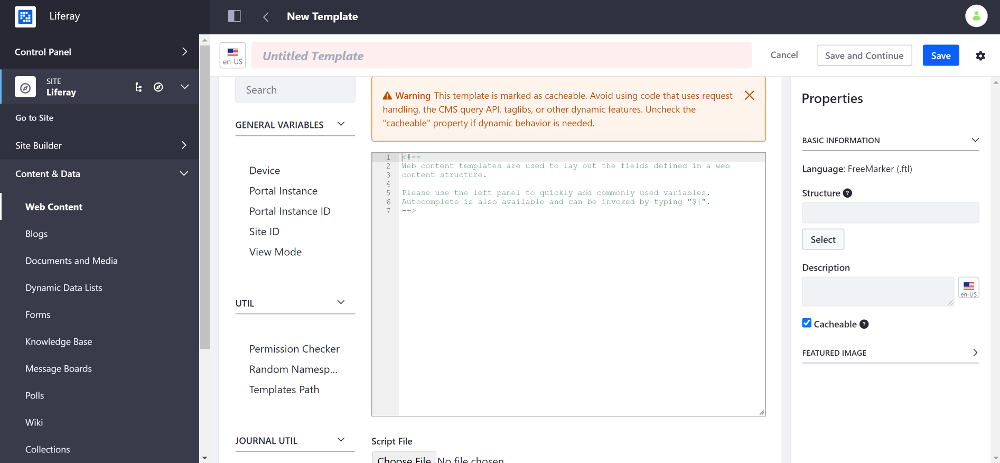
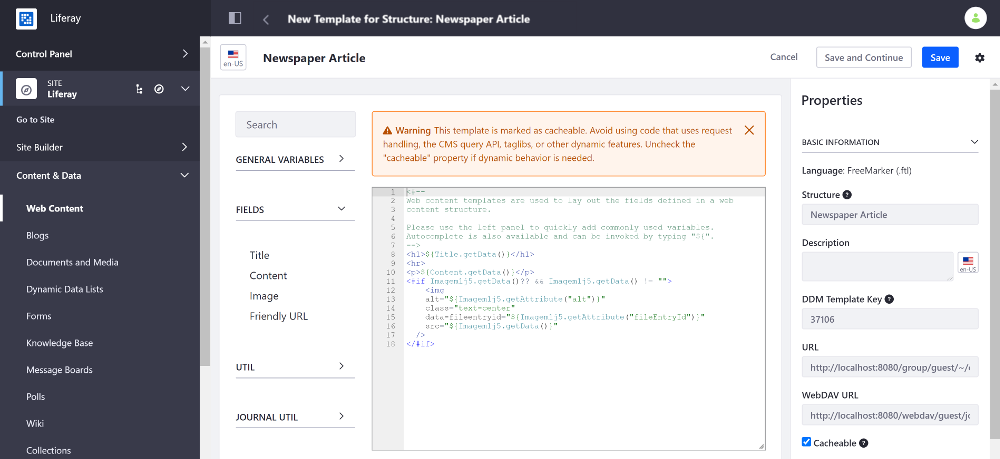
LRDOCS-7918 rebase and add example

diff --git a/docs/dxp/7.x/en/content-authoring-and-management/web-content/user-guide/web-content-templates/creating-web-content-templates.md b/docs/dxp/7.x/en/content-authoring-and-management/web-content/user-guide/web-content-templates/creating-web-content-templates.md
@@ -6,16 +6,20 @@ Structures define the available fields for creating Web Content, while Web Conte
    Web Content Templates are written in the FreeMarker Template Language (FTL).
 ```
 
+The [Newspaper Article Structure and Template](https://github.com/liferay/liferay-learn/tree/master/docs/dxp/7.x/en/content-authoring-and-management/web-content/user-guide/web-content-templates/creating-web-content-templates/liferay-a2e7.zip) are used as an example in the steps below. You can download it to follow along.
+
 To create a Web Content Template, follow these steps:
 
 1. Open the Product Menu and go to the Site Menu &rarr; *Content & Data* &rarr; *Web Content*.
 1. Select the *Templates* tab.
 1. Click the *Add button* (![Add Template](../../../../images/icon-add.png)) to create a new Web Content Template.
-1. Enter the title of your new Web Content Template and add your code to the script window. If you're creating a Web Content Template to [embed in another Template](./advanced-web-content-templates/embedding-web-content-templates.md), you can skip to step eight.
+1. Enter the title of your new Web Content Template and add your code to the script window. You can add the code from the example *Newspaper Article* Template by clicking the *Choose File* button below the Script window and importing the `/liferay-a2e7/newspaper-article-template.ftl` file. If you're creating a Web Content Template to [embed in another Template](./advanced-web-content-templates/embedding-web-content-templates.md), you can skip to step eight.
 
     ![Template code (FreeMarker) is added to the script window.](./creating-web-content-templates/images/01.png)
 
-1. Optionally link a Structure to the Template by clicking *Select* under the *Structure* field in the *Properties* panel on the right and clicking the name of the Structure in the dialog that appears.
+1. Optionally link a Structure to the Template by clicking *Select* under the *Structure* field in the *Properties* panel on the right and clicking the name of the Structure in the dialog that appears. See [Creating Structures](../web-content-structures/creating-structures.md) for more information on creating Structures.
+
+    To follow along with the example, [Create a new Structure](../web-content-structures/creating-structures.md) called *Newspaper Article Structure* and replace the contents of the *Source* tab with the `/liferay-a2e7/newspaper-article-structure.ftl` file.
    
     ![You can link the Template to a Structure through the Properties panel.](./creating-web-content-templates/images/02.png)
 
@@ -26,19 +30,29 @@ To create a Web Content Template, follow these steps:
 1. Place your cursor in the script editor where you want to add the field to the Template, and click the field in the *Fields* panel to add it. An example is shown below:
 
     ```markup
-    ${title.getData()}
-    ${abstract.getData()}
-    <#if image.getData()?? && image.getData() != ""> <img alt="${image.getAttribute("alt")}" data-fileentryid="${image.getAttribute("fileEntryId")}" src="${image.getData()}" /> </#if>
-    ${body.getData()}
+    ${Title.getData()}
+    ${Content.getData()}
+    <#if Imagem1j5.getData()?? && Imagem1j5.getData() != "">
+    	<img alt="${Imagem1j5.getAttribute("alt")}" data-fileentryid="${Imagem1j5.getAttribute("fileEntryId")}" src="${Imagem1j5.getData()}" />
+    </#if>
     ```
 
 1. Add any additional HTML or FreeMarker that your require for the Template. The example below wraps the fields with some basic HTML elements to provide formatting: 
 
     ```markup
-    <h1>${title.getData()}</h1>
-    <p>${abstract.getData()}</p>
-    <#if image.getData()?? && image.getData() != ""> <img alt="${image.getAttribute("alt")}" data-fileentryid="${image.getAttribute("fileEntryId")}" src="${image.getData()}" align="center" /> </#if>
-    <p>${body.getData()}</p>
+    <h1>${Title.getData()}</h1>
+    <hr>
+    <p>${Content.getData()}</p>
+    <#if Imagem1j5.getData()?? && Imagem1j5.getData() != "">
+    	<img 
+        alt="${Imagem1j5.getAttribute("alt")}" 
+        class="text-center" 
+        data-fileentryid="${Imagem1j5.getAttribute("fileEntryId")}" 
+        src="${Imagem1j5.getData()}" 
+      />
+    </#if>
     ```
 
 1. Click *Save*.
+
+Once you've created the Web Content Template, you can [create a Web Content Article](../web-content-articles/adding-a-basic-web-content-article.md) to use it.

diff --git a/docs/dxp/7.x/en/content-authoring-and-management/web-content/user-guide/web-content-structures/configuring-structure-fields.md b/docs/dxp/7.x/en/content-authoring-and-management/web-content/user-guide/web-content-structures/configuring-structure-fields.md
@@ -14,6 +14,10 @@ You can edit the fields in a Structure, as well as the properties of each field.
 1. Select the field you want to configure and click the *Settings* tab, or hover over the field and click the *Settings* (![Settings icon](../../../../images/icon-control-menu-gear.png)) icon in the context menu that appears. You can perform [other actions](#structure-field-options) in the context menu as well.
 1. [Configure your desired settings](#configurable-settings) for the field and *Save* the changes.
 
+```tip::
+   When you create or `edit a Structure <./configuring-structure-fields.md>`_, the *View* tab is selected by default. You can switch to the *Source* tab to view the Structure's raw XML and modify it directly.
+```
+
 ## Configurable Settings
 
 ```note::

diff --git a/docs/dxp/7.x/en/content-authoring-and-management/web-content/user-guide/web-content-structures/creating-structures.md b/docs/dxp/7.x/en/content-authoring-and-management/web-content/user-guide/web-content-structures/creating-structures.md
@@ -9,7 +9,7 @@ Follow these steps to create a Structure:
 1. Drag and drop the [available fields](#structure-fields) onto the Structure and [configure their settings](./configuring-structure-fields.md#configurable-settings) to create the Structure.
 
     ```tip::
-       When you create or `edit a Structure <./editing-and-configuring-structure-fields.md>`_, the *View* tab is selected by default. You can switch to the *Source* tab to view the Structure's raw XML and modify it directly.
+       When you create or `edit a Structure <./configuring-structure-fields.md>`_, the *View* tab is selected by default. You can switch to the *Source* tab to view the Structure's raw XML and modify it directly.
     ```
 
 1. Optionally, add a *Description* for your Structure.
